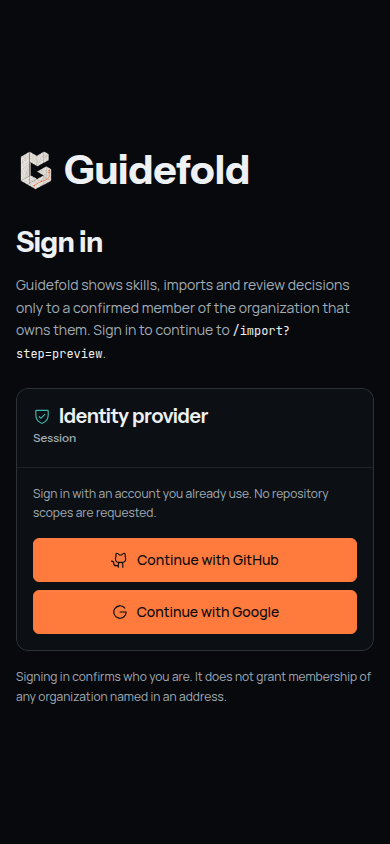
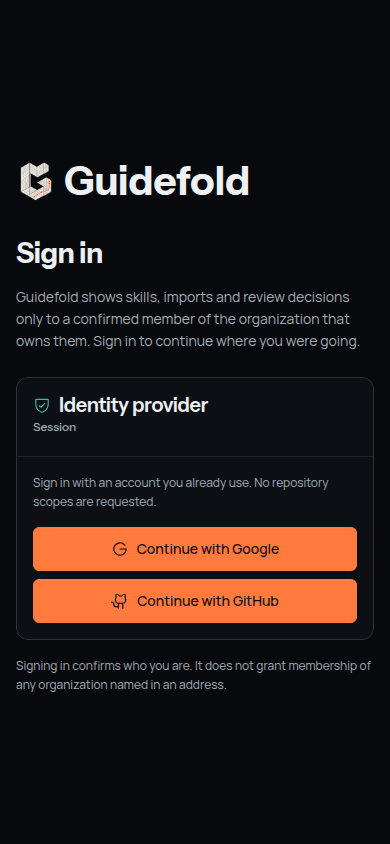
fix(ui): stop the login page echoing the address it was reached from
The e2e states spec caught it: the redirect target printed on /login can carry an
organization slug, a repository and a skill URN, and an address is not content an
unauthenticated screen may echo back — the same rule the error states already
follow. The target is still kept and still handed to the API as return_to; it is
simply no longer rendered.

Also moves the three specs that opened /import?step=login onto the gate, and
teaches e2e/stub.ts to model a browser with no session (`state.signedOut`): /me
is refused until the /auth/login/{provider} 302 hands a session back, which is
the round trip the gate reacts to. Default off, so no other spec changes.

The 403 spec now asserts the redirect out of the shell instead of the in-shell
"Access unavailable" the gate replaces.

Claude-Session: https://claude.ai/code/session_01K1RwGXPZBT1Vs6J7uXHzHo

diff --git a/ui/e2e/stub.ts b/ui/e2e/stub.ts
@@ -91,7 +91,10 @@ const facetValues = (field: string) => counted(
         : item => item.scope,
 );
 
-export interface StubState { proposalState: string; publicationCalls: number; queueDecided: boolean; linkSuggested: boolean; generated: boolean; meCalls: number }
+/** `signedOut` models a browser with no session: `/me` is refused until the provider round trip
+ *  hands one back, which is what the app's session gate reacts to. Default false — the scenarios
+ *  describe an organisation's data, not its session. */
+export interface StubState { proposalState: string; publicationCalls: number; queueDecided: boolean; linkSuggested: boolean; generated: boolean; meCalls: number; signedOut: boolean }
 
 const importPlan = () => ({
   groups: [{
@@ -125,7 +128,7 @@ export const usageReport = (scenario: Scenario, state: StubState) => scenario ==
 };
 
 export async function stubApi(page: Page, scenario: Scenario = 'ready'): Promise<StubState> {
-  const state: StubState = { proposalState: 'draft', publicationCalls: 0, queueDecided: false, linkSuggested: false, generated: false, meCalls: 0 };
+  const state: StubState = { proposalState: 'draft', publicationCalls: 0, queueDecided: false, linkSuggested: false, generated: false, meCalls: 0, signedOut: false };
   const listed = scenario === 'empty' ? [] : skills;
   const proposal = () => ({
     proposal_id: 'p-1', kind: 'enrichment', state: state.proposalState,
@@ -160,6 +163,7 @@ export async function stubApi(page: Page, scenario: Scenario = 'ready'): Promise
     // not the session, except `restricted`, whose account belongs to another organisation.
     if (at === '/me') {
       state.meCalls += 1;
+      if (state.signedOut) return failure(401, 'unauthenticated', 'No session.');
       if (scenario === 'degraded' && state.meCalls > 1) return failure(503, 'unavailable', 'The identity service did not answer.');
       return json({
         user: { id: 'u-1', email: 'ada@meridian.test', name: 'Ada' },
@@ -182,7 +186,10 @@ export async function stubApi(page: Page, scenario: Scenario = 'ready'): Promise
     });
     // The provider round trip: the real API redirects to the provider and back; the stub sends
     // the browser straight to `return_to`, the address the app asked to come back to.
-    if (at.startsWith('/auth/login/')) return route.fulfill({ status: 302, headers: { Location: url.searchParams.get('return_to') ?? '/import' } });
+    if (at.startsWith('/auth/login/')) {
+      state.signedOut = false;
+      return route.fulfill({ status: 302, headers: { Location: url.searchParams.get('return_to') ?? '/import' } });
+    }
 
     // Everything below belongs to an organisation or a repository and follows the scenario.
     if (scenario === 'error') return failure(500, 'internal', 'The stub is failing on purpose.');

diff --git a/ui/e2e/states.spec.ts b/ui/e2e/states.spec.ts
@@ -102,13 +102,15 @@ test('a 403 from the repository revokes the session view-wide and reveals nothin
     body: JSON.stringify({ error: 'forbidden', message: 'No.', request_id: 'stub-403' }),
   }));
   for (const [view, extra] of [['library', ''], ['skill', skillView], ['usage', '']]) {
-    await page.goto('/' + view + query(extra));
-    await settle(page, 'restricted');
+    const at = '/' + view + query(extra);
+    await page.goto(at);
+    // A denial observed by any request is reported to the access controller, and every management
+    // route is private: the request leaves the shell for the login page carrying where it was
+    // going. The route's own restricted state is never reached, and neither is the shell's.
+    await page.waitForURL('**/login?return=' + encodeURIComponent(at));
     const main = page.locator('main');
-    // A denial observed by any request is reported to the access controller, which masks every
-    // view until the operator signs in again; the route's own restricted state is never reached.
-    await expect(main.getByText('Access unavailable').first()).toBeVisible();
-    await expect(main.getByRole('link', { name: 'Sign in again' })).toBeVisible();
+    await expect(main.getByRole('heading', { level: 1, name: 'Sign in' })).toBeVisible();
+    await expect(page.getByRole('navigation', { name: 'Main navigation' })).toHaveCount(0);
     expect(await main.innerText(), view).not.toMatch(content);
     await expect(main.locator('input, textarea, select')).toHaveCount(0);
     await clean(page, view + '/403');

diff --git a/ui/e2e/api-mode.spec.ts b/ui/e2e/api-mode.spec.ts
@@ -8,11 +8,22 @@
 import { test, expect } from '@playwright/test';
 import { axeViolations, chosen, nodes, noHorizontalScroll, open, sourceUrl, stubApi, tabTo } from './stub';
 
-test('sign-in providers and the organisation come from the API', async ({ page }) => {
-  await stubApi(page);
-  await page.goto('/import?step=login');
+test('an unauthenticated management route lands on the login page outside the shell', async ({ page }) => {
+  const state = await stubApi(page);
+  state.signedOut = true;
+  await page.goto('/proposals?state=open');
+  await expect(page).toHaveURL(/\/login\?return=%2Fproposals%3Fstate%3Dopen/);
+  await expect(page.getByRole('heading', { level: 1, name: 'Sign in' })).toBeVisible();
   await expect(page.getByRole('button', { name: /Continue with GitHub/ })).toBeVisible();
+  await expect(page.getByRole('navigation', { name: 'Main navigation' })).toHaveCount(0);
+});
+
+test('the organisation comes from the API once the session is confirmed', async ({ page }) => {
+  await stubApi(page);
+  await page.goto('/import');
   await expect(page.getByText('Meridian Data')).toBeVisible();
+  // Sign-in is not a step of the wizard any more.
+  await expect(page.getByRole('button', { name: /Continue with GitHub/ })).toHaveCount(0);
 });
 
 test('library filters, cursor context and the skill link survive the URL', async ({ page }) => {

diff --git a/ui/src/routes/LoginRoute.test.tsx b/ui/src/routes/LoginRoute.test.tsx
@@ -39,12 +39,15 @@ describe('the return target is a path, never a second origin', () => {
 });
 
 describe('login page, full width, outside the shell', () => {
-  test('the page names itself, carries the mark and shows where sign-in leads', async () => {
-    renderLogin(withProviders([github]), '/proposals?state=open');
+  test('the page names itself and never echoes the address it was reached from', async () => {
+    const target = '/skill?org=meridian&skill=' + encodeURIComponent('urn:skill:meridian:atlas:postgres-auth');
+    renderLogin(withProviders([github]), target);
     expect(await screen.findByRole('button', { name: /Continue with GitHub/ })).toBeInTheDocument();
     expect(screen.getByRole('heading', { level: 1, name: 'Sign in' })).toBeInTheDocument();
     expect(screen.getByText('Guidefold')).toBeInTheDocument();
-    expect(screen.getByText('/proposals?state=open')).toBeInTheDocument();
+    // An address can carry an organization, a repository and a skill URN; this screen is reached
+    // without a session, so it keeps the target and prints none of it.
+    expect(document.body.textContent).not.toMatch(/urn:skill:|meridian/);
     // No shell: the login page reads nothing for an organisation the caller is not in yet.
     expect(screen.queryByRole('navigation', { name: 'Main navigation' })).not.toBeInTheDocument();
   });

diff --git a/ui/src/routes/LoginRoute.tsx b/ui/src/routes/LoginRoute.tsx
@@ -43,7 +43,10 @@ export function LoginRoute({ source, returnTo }: { source: DataSource; returnTo:
     <div className={styles.column}>
       <BrandMark />
       <h1 className={styles.title}>Sign in</h1>
-      <p className={styles.lede}>Guidefold shows skills, imports and review decisions only to a confirmed member of the organization that owns them. Sign in to continue to <code className={styles.target}>{returnTo}</code>.</p>
+      {/* The requested address is kept, never printed: it can carry an organization slug, a
+          repository and a skill URN, and an address is not content this page may echo back on an
+          unauthenticated screen (UX 7, the same rule the error states follow). */}
+      <p className={styles.lede}>Guidefold shows skills, imports and review decisions only to a confirmed member of the organization that owns them. Sign in to continue where you were going.</p>
       <Panel title="Identity provider" eyebrow="Session" icon={<ShieldCheck weight="regular" aria-hidden="true" />}>
         {providers.phase === 'loading' && <RouteState state="loading" title="Reading providers" description="Asking the API which identity providers are configured." />}
         {providers.phase === 'error' && providers.error && <ApiFailure error={providers.error} onRetry={providers.reload} retryLabel="Retry the provider list" />}

diff --git a/ui/e2e/owner-keyboard.spec.ts b/ui/e2e/owner-keyboard.spec.ts
@@ -9,8 +9,12 @@ import { chosen, commit, enter, org, raw, repoId, sourceUrl, stubApi, tabTo } fr
 
 test('owner completes sign-in, import, library, review and export with keyboard only', async ({ page }) => {
   test.setTimeout(120000);
-  await stubApi(page);
-  await page.goto('/import?step=login');
+  const state = await stubApi(page);
+  // Sign-in is the /login page now, not a step of the wizard: with no session the gate sends the
+  // request there with where it was going, and the API's 302 to return_to lands the owner on it.
+  state.signedOut = true;
+  await page.goto('/import?step=organization');
+  await page.waitForURL(/\/login\?return=/);
   await enter(page, page.getByRole('button', { name: 'Continue with GitHub', exact: true }));
   await page.waitForURL(/\/import\?.*step=organization/);
   await enter(page, page.getByRole('link', { name: 'Use this organization', exact: true }));

diff --git a/ui/src/routes/LoginRoute.module.css b/ui/src/routes/LoginRoute.module.css
@@ -5,7 +5,6 @@
 .column { display: grid; gap: var(--space-3); width: var(--full); max-width: var(--form-width); min-width: var(--zero); }
 .title { margin: var(--space-2) var(--zero) var(--zero); font-size: var(--font-size-title); letter-spacing: var(--tracking-title); }
 .lede { margin: var(--zero) var(--zero) var(--space-2); color: var(--stone-300); max-width: var(--reading-width); }
-.target { color: var(--stone-100); overflow-wrap: anywhere; }
 .help { margin: var(--zero) var(--zero) var(--space-3); color: var(--stone-300); font-size: var(--font-size-small); line-height: var(--line-height-body); }
 .providers { display: grid; gap: var(--space-2); min-width: var(--zero); }
 /* 44 px at every width, not only below 720: this page is the first thing a phone user touches. */

diff --git a/ui/e2e/live/keyboard.spec.ts b/ui/e2e/live/keyboard.spec.ts
@@ -9,7 +9,9 @@ import { anImportId, api, enter, repoBase, settled, seed, signIn, someSkills, ta
 
 test('owner reaches import, library, skill and a decision with the keyboard only', async ({ page }) => {
   // Logowanie: dostawca jest przyciskiem, więc dochodzimy do niego Tabem i naciskamy Enter.
-  await page.goto(`/import?org=${seed.org}&repo=${seed.repo}&step=login`);
+  // Brama sesji: adres panelu bez sesji ląduje na /login z celem powrotu w `?return=`.
+  await page.goto(`/import?org=${seed.org}&repo=${seed.repo}`);
+  await page.waitForURL(/\/login\?return=/);
   await settled(page);
   await enter(page, page.getByRole('button', { name: /Continue with (Google|GitHub)/ }).first());
 
